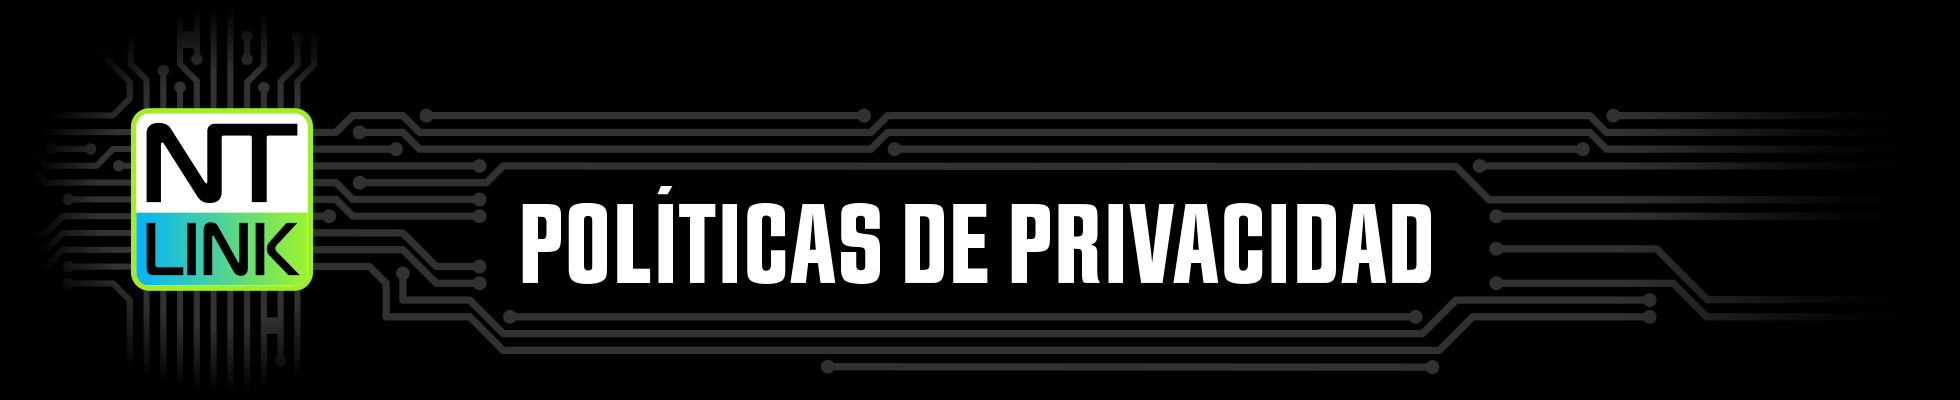
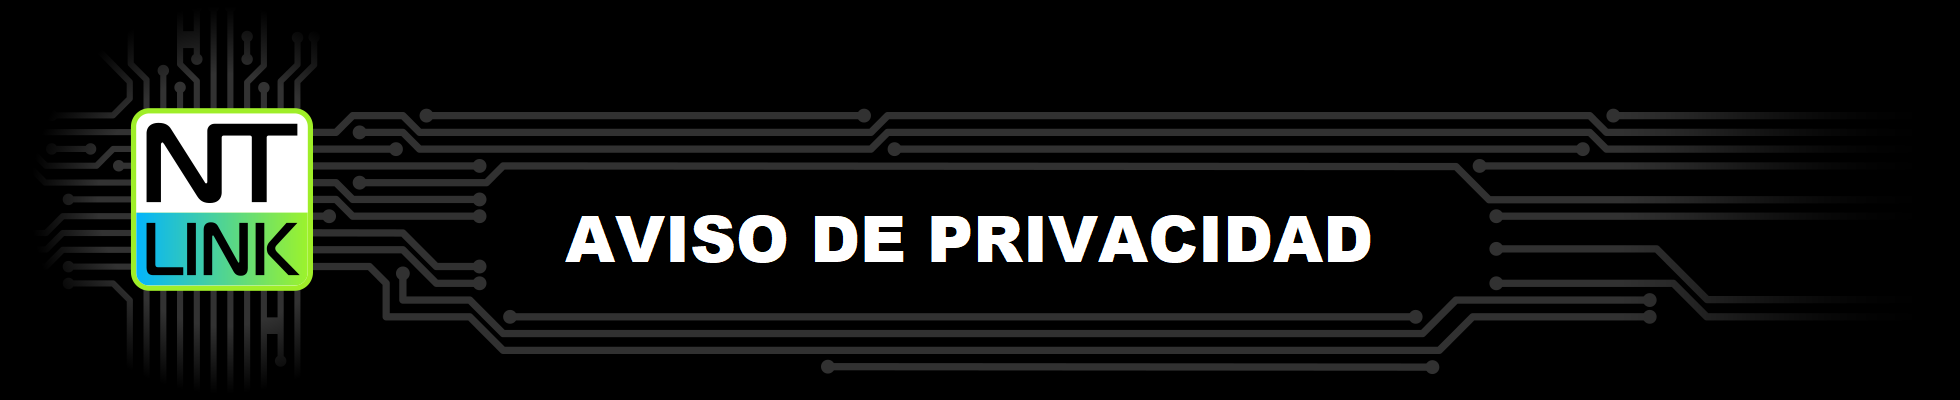
Update privacy policy

Changed region(s): [[0.249, 0.51, 0.7469, 0.72]]

diff --git a/src/App.js b/src/App.js
@@ -16,7 +16,7 @@ import { PortalNomina } from 'pages/PortalNomina';
 import { ComplementosCfdi } from 'pages/ComplementosCfdi';
 import { AdendasCfdi } from 'pages/AdendasCfdi';
 import { Convertidor } from 'pages/Convertidor';
-import { PoliticaPrivacidad } from 'pages/PoliticaPrivacidad';
+import { AvisoPrivacidad } from 'pages/AvisoPrivacidad';
 import { TerminosYCondiciones } from 'pages/TerminosYCondiciones';
 import { Precios } from 'pages/Precios';
 import { Contacto } from 'pages/Contacto';
@@ -39,7 +39,7 @@ function App() {
           <Route path="/complementos" element={<ComplementosCfdi />} />
           <Route path="/adendas" element={<AdendasCfdi />} />
           <Route path="/convertidor" element={<Convertidor />} />
-          <Route path="/politica-privacidad" element={<PoliticaPrivacidad />} />
+          <Route path="/aviso-privacidad" element={<AvisoPrivacidad />} />
           <Route path="/terminos-condiciones" element={<TerminosYCondiciones />} />
           <Route path="/precios" element={<Precios />} />
           <Route path="/planes-timbrado" element={<PlanesTimbrado />} />

diff --git a/src/pages/Home.js b/src/pages/Home.js
@@ -311,7 +311,7 @@ export class Home extends Component {
 
                             </div>
                         </div>
-                        <div className="text-center py-4 text-light mt-4">Copyright © 2021 NTLINK COMUNICACIONES - Todos los derechos reservados | <a href="politica-privacidad" className='text-light'>POLITICA DE PRIVACIDAD</a> | <a href="/terminos-condiciones" className='text-light'> TERMINOS Y CONDICIONES</a> </div>
+                        <div className="text-center py-4 text-light mt-4">Copyright © 2021 NTLINK COMUNICACIONES - Todos los derechos reservados | <a href="aviso-privacidad" className='text-light'>AVISO DE PRIVACIDAD</a> | <a href="/terminos-condiciones" className='text-light'> TERMINOS Y CONDICIONES</a> </div>
                     </div>
                     <img className="rounded mx-auto d-block" src={require('../assets/img/All/pie_remate-circuitos.gif')} />
                 </footer>

diff --git a/src/pages/AvisoPrivacidad.js b/src/pages/AvisoPrivacidad.js
@@ -1,6 +1,6 @@
 import { Component } from "react";
 
-export class PoliticaPrivacidad extends Component{
+export class AvisoPrivacidad extends Component{
 
     render(){
         return (
